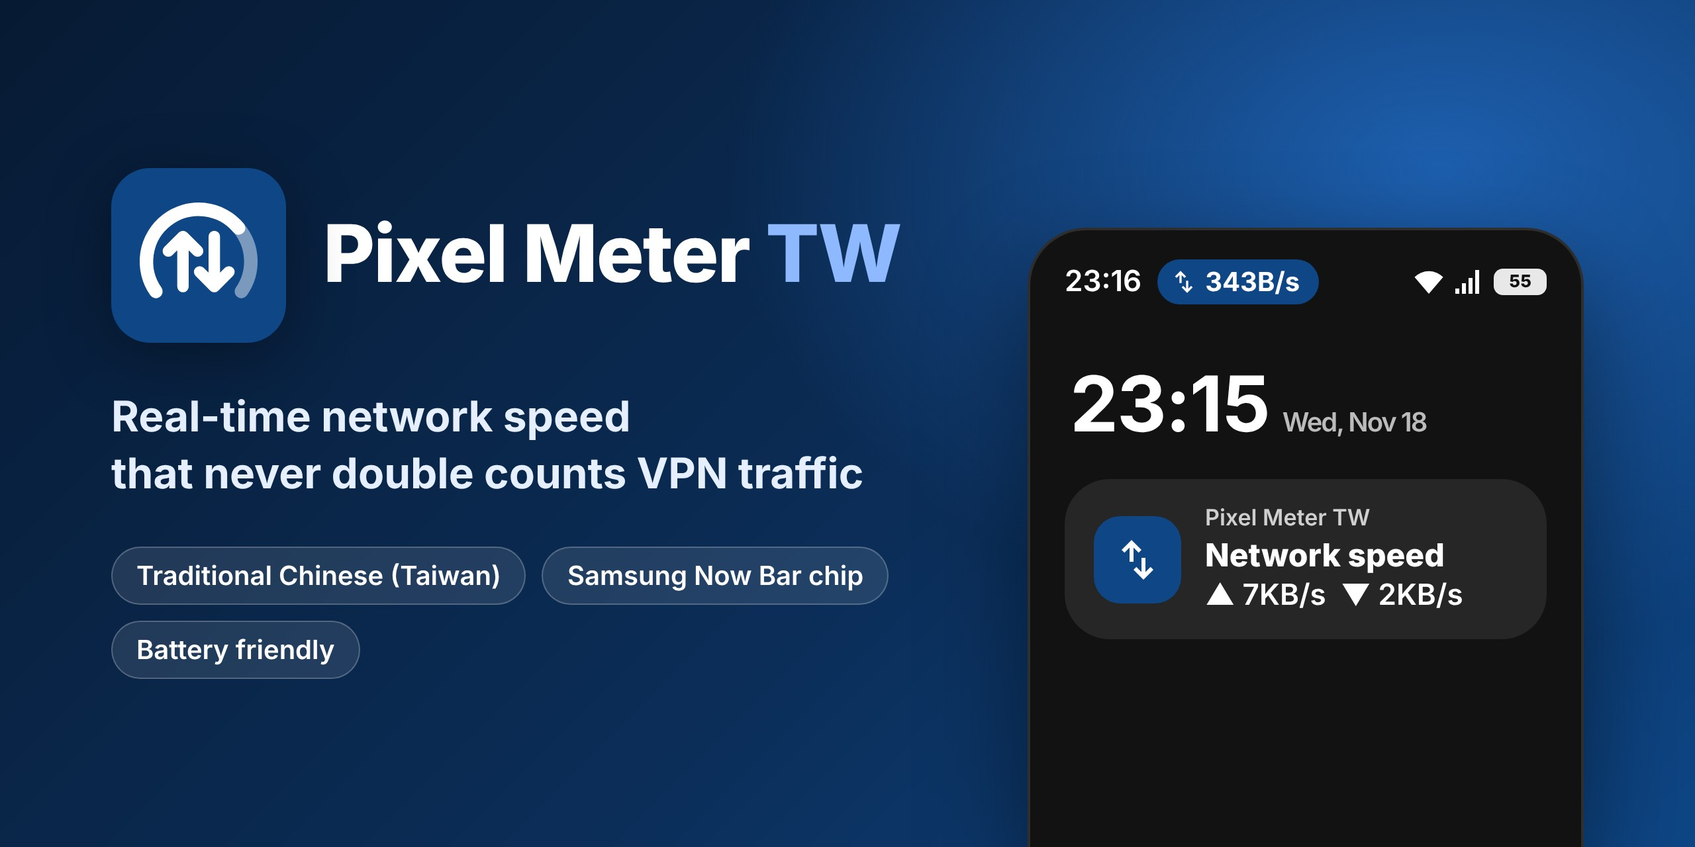
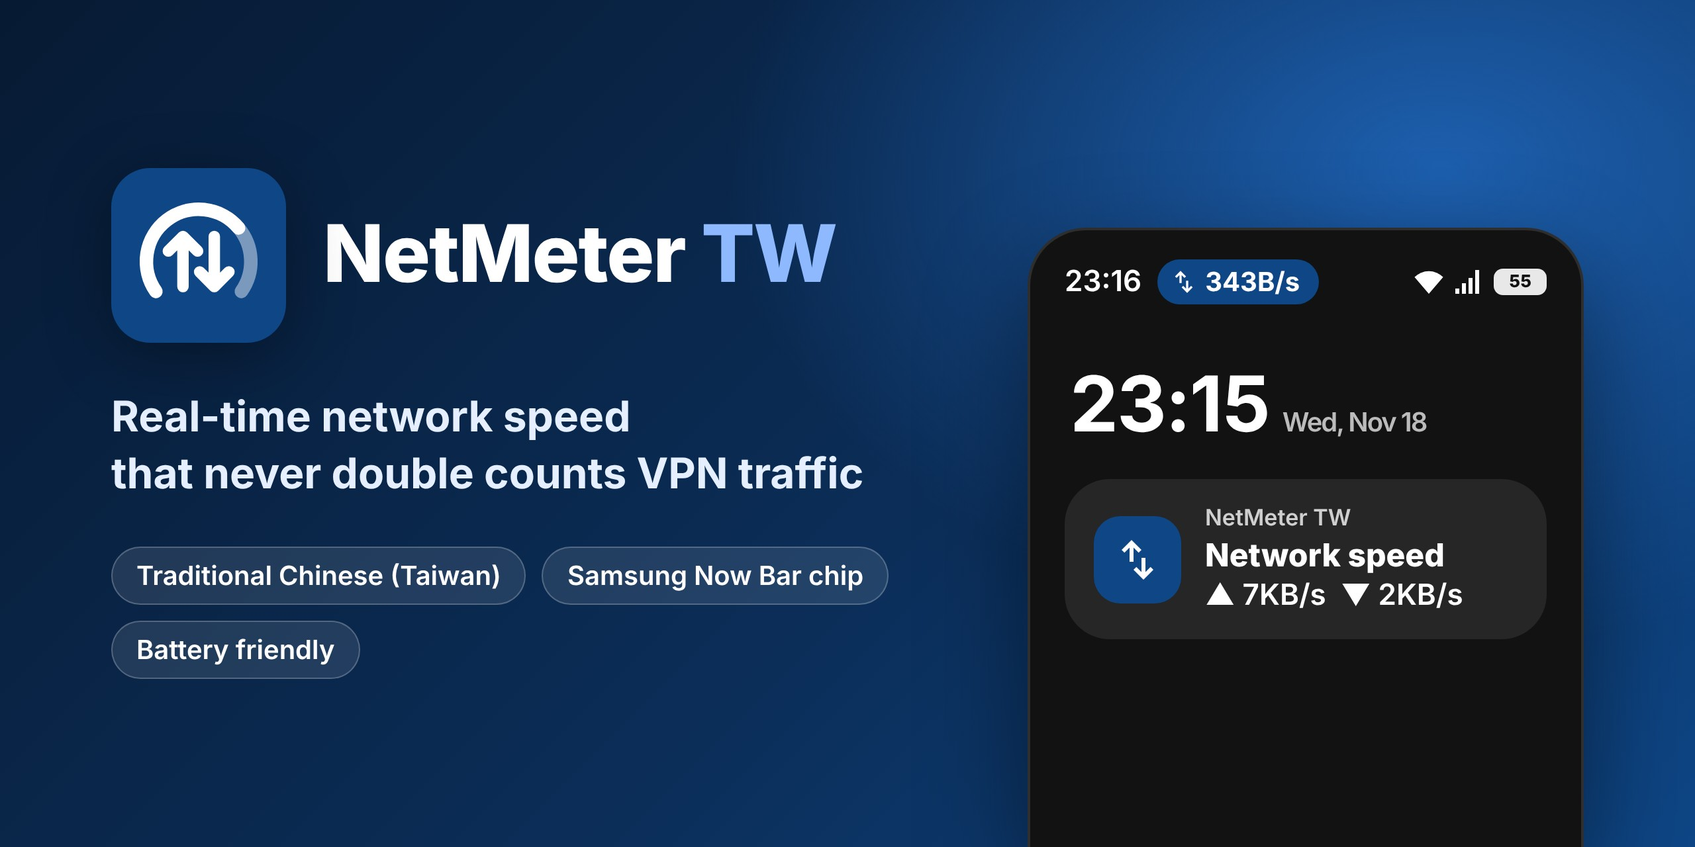
chore: rename the app to NetMeter TW
Replace the Pixel Meter name in the app label, onboarding strings, docs,
privacy policy, issue templates, workflows, release notes, and banners.
The About page now links to this repository and keeps an Apache-2.0
attribution entry for the original Pixel Meter instead of upstream's
website and Telegram channel. Rename the internal theme identifiers and
fix the CI smoke test to use the fork's application ID.

The internal package and DataStore name stay unchanged to keep upstream
merges possible and preserve user settings.

Claude-Session: https://claude.ai/code/session_017C3WMGrk2BviPpeCYqiVqC

Changed region(s): [[0.1875, 0.25, 0.5312, 0.3438], [0.7188, 0.5938, 0.8125, 0.625]]

diff --git a/app/src/main/kotlin/vip/mystery0/pixel/meter/ui/settings/AboutSettingsSection.kt b/app/src/main/kotlin/vip/mystery0/pixel/meter/ui/settings/AboutSettingsSection.kt
@@ -9,6 +9,9 @@ import me.zhanghai.compose.preference.PreferenceCategory
 import vip.mystery0.pixel.meter.BuildConfig
 import vip.mystery0.pixel.meter.R
 
+private const val REPOSITORY_URL = "https://github.com/candy999/NetMeter-TW"
+private const val UPSTREAM_REPOSITORY_URL = "https://github.com/Pixel-Tailor-CN/PixelMeter"
+
 @Composable
 fun AboutSettingsSection() {
     val uriHandler = LocalUriHandler.current
@@ -20,17 +23,13 @@ fun AboutSettingsSection() {
     )
     Preference(
         title = { Text(stringResource(R.string.settings_github)) },
-        summary = { Text("https://github.com/Pixel-Tailor-CN/PixelMeter") },
-        onClick = { uriHandler.openUri("https://github.com/Pixel-Tailor-CN/PixelMeter") }
+        summary = { Text(REPOSITORY_URL) },
+        onClick = { uriHandler.openUri(REPOSITORY_URL) }
     )
+    // Apache-2.0 attribution for the upstream project this fork is based on.
     Preference(
-        title = { Text(stringResource(R.string.settings_pixel_tailor)) },
-        summary = { Text(stringResource(R.string.settings_pixel_tailor_desc)) },
-        onClick = { uriHandler.openUri("https://pixel.mystery0.app") }
-    )
-    Preference(
-        title = { Text(stringResource(R.string.settings_telegram_channel)) },
-        summary = { Text(stringResource(R.string.settings_telegram_channel_desc)) },
-        onClick = { uriHandler.openUri("https://t.me/pixel_tailor_cn") }
+        title = { Text(stringResource(R.string.settings_original_project_title)) },
+        summary = { Text(stringResource(R.string.settings_original_project_desc)) },
+        onClick = { uriHandler.openUri(UPSTREAM_REPOSITORY_URL) }
     )
 }

diff --git a/app/src/main/kotlin/vip/mystery0/pixel/meter/ui/settings/SettingsActivity.kt b/app/src/main/kotlin/vip/mystery0/pixel/meter/ui/settings/SettingsActivity.kt
@@ -53,7 +53,7 @@ import androidx.lifecycle.LifecycleEventObserver
 import androidx.lifecycle.compose.LocalLifecycleOwner
 import me.zhanghai.compose.preference.ProvidePreferenceLocals
 import vip.mystery0.pixel.meter.R
-import vip.mystery0.pixel.meter.ui.theme.PixelPulseTheme
+import vip.mystery0.pixel.meter.ui.theme.NetMeterTheme
 
 private const val SETTINGS_TWO_PANE_MIN_WIDTH_DP = 840
 private const val SETTINGS_PAGE_TRANSITION_DURATION_MS = 250
@@ -73,7 +73,7 @@ class SettingsActivity : ComponentActivity() {
             val appThemeMode by viewModel.appThemeMode.collectAsState()
             val appThemeColor by viewModel.appThemeColor.collectAsState()
             val useAmoledBlack by viewModel.isAppThemeUseAmoledBlack.collectAsState()
-            PixelPulseTheme(
+            NetMeterTheme(
                 themeMode = appThemeMode,
                 themeColor = appThemeColor,
                 useAmoledBlack = useAmoledBlack

diff --git a/app/src/main/kotlin/vip/mystery0/pixel/meter/ui/overlay/OverlayWindow.kt b/app/src/main/kotlin/vip/mystery0/pixel/meter/ui/overlay/OverlayWindow.kt
@@ -57,7 +57,7 @@ import kotlinx.coroutines.launch
 import vip.mystery0.pixel.meter.data.repository.NetworkRepository
 import vip.mystery0.pixel.meter.data.source.NetSpeedData
 import vip.mystery0.pixel.meter.format.SpeedFormatter
-import vip.mystery0.pixel.meter.ui.theme.PixelPulseTheme
+import vip.mystery0.pixel.meter.ui.theme.NetMeterTheme
 import kotlin.math.roundToInt
 
 private const val LOW_TRAFFIC_HIDE_SAMPLE_COUNT = 3
@@ -142,7 +142,7 @@ class OverlayWindow(
                 val appThemeMode by repository.appThemeMode.collectAsState()
                 val appThemeColor by repository.appThemeColor.collectAsState()
                 val useAmoledBlack by repository.isAppThemeUseAmoledBlack.collectAsState()
-                PixelPulseTheme(
+                NetMeterTheme(
                     themeMode = appThemeMode,
                     themeColor = appThemeColor,
                     useAmoledBlack = useAmoledBlack

diff --git a/app/src/main/kotlin/vip/mystery0/pixel/meter/MainActivity.kt b/app/src/main/kotlin/vip/mystery0/pixel/meter/MainActivity.kt
@@ -62,7 +62,7 @@ import vip.mystery0.pixel.meter.format.SpeedFormatter
 import vip.mystery0.pixel.meter.ui.MainViewModel
 import vip.mystery0.pixel.meter.ui.onboarding.OnboardingScreen
 import vip.mystery0.pixel.meter.ui.settings.SettingsActivity
-import vip.mystery0.pixel.meter.ui.theme.PixelPulseTheme
+import vip.mystery0.pixel.meter.ui.theme.NetMeterTheme
 
 class MainActivity : ComponentActivity() {
     companion object {
@@ -81,7 +81,7 @@ class MainActivity : ComponentActivity() {
             val appThemeMode by viewModel.appThemeMode.collectAsState()
             val appThemeColor by viewModel.appThemeColor.collectAsState()
             val useAmoledBlack by viewModel.isAppThemeUseAmoledBlack.collectAsState()
-            PixelPulseTheme(
+            NetMeterTheme(
                 themeMode = appThemeMode,
                 themeColor = appThemeColor,
                 useAmoledBlack = useAmoledBlack

diff --git a/app/src/main/kotlin/vip/mystery0/pixel/meter/service/NotificationHelper.kt b/app/src/main/kotlin/vip/mystery0/pixel/meter/service/NotificationHelper.kt
@@ -121,7 +121,7 @@ class NotificationHelper(private val context: Context) {
     }
 
     // Icon generation
-    // On Pixel, small icon is typically 24dp. We render at higher res (e.g. 48px or 96px) for clarity
+    // The status bar small icon is typically 24dp. We render at higher res (e.g. 48px or 96px) for clarity
     private val size =
         (context.resources.displayMetrics.density * 24).roundToInt().coerceAtLeast(48)
     private val bitmap = createBitmap(size, size)

diff --git a/app/src/main/kotlin/vip/mystery0/pixel/meter/ui/theme/Theme.kt b/app/src/main/kotlin/vip/mystery0/pixel/meter/ui/theme/Theme.kt
@@ -72,7 +72,7 @@ private val FixedDarkColorScheme = darkColorScheme(
 )
 
 @Composable
-fun PixelPulseTheme(
+fun NetMeterTheme(
     darkTheme: Boolean = isSystemInDarkTheme(),
     themeMode: Int = AppThemeMode.DEFAULT.value,
     themeColor: Int = AppThemeMode.DEFAULT_THEME_COLOR,

diff --git a/.github/scripts/overlay_permission_smoke.py b/.github/scripts/overlay_permission_smoke.py
@@ -1,5 +1,5 @@
 #!/usr/bin/env python3
-"""Issue #30 black-box UI smoke tests for an installed Pixel Meter debug APK.
+"""Issue #30 black-box UI smoke tests for an installed NetMeter TW debug APK.
 
 Requires an unlocked API 33 x86_64 English emulator and Python 3.10+. No external
 Python dependencies, instrumentation, root, service-start commands, preference
@@ -29,7 +29,7 @@ from dataclasses import dataclass
 from typing import Callable
 
 
-PACKAGE = "vip.mystery0.pixel.meter"
+PACKAGE = "io.github.candy999.netmeter"
 NOTIFICATION_PERMISSION = "android.permission.POST_NOTIFICATIONS"
 OVERLAY_LABEL = "Enable Floating Window"
 NOTIFICATION_LABEL = "Show on Notification"
@@ -366,7 +366,7 @@ class Harness:
                 "pm clear failed; cases cannot be isolated")
         self.permissions(overlay, notification)
         self.launch()
-        self.find("Set up Pixel Meter")
+        self.find("Set up NetMeter TW")
         self.assert_runtime(False, False, duration=1)
 
     def onboarding(self, overlay: bool, notification: bool, allowed: bool = True) -> None:
@@ -648,14 +648,14 @@ def application_errors(log: str, package: str) -> list[str]:
 
 def save_reports(output: Path, results: list[dict]) -> None:
     failures = sum(result["status"] == "failed" for result in results)
-    payload = {"suite": "PixelMeter issue #30 API 33 UI smoke", "cases": results,
+    payload = {"suite": "NetMeterTW issue #30 API 33 UI smoke", "cases": results,
                "tests": len(results), "failures": failures}
     (output / "results.json").write_text(json.dumps(payload, indent=2), encoding="utf-8")
     suite = ET.Element("testsuite", name=payload["suite"], tests=str(len(results)),
                        failures=str(failures), errors="0", skipped="0",
                        time=str(round(sum(result["duration_seconds"] for result in results), 3)))
     for result in results:
-        case = ET.SubElement(suite, "testcase", classname="PixelMeter.OverlayPermissionSmoke",
+        case = ET.SubElement(suite, "testcase", classname="NetMeterTW.OverlayPermissionSmoke",
                              name=result["name"], time=str(result["duration_seconds"]))
         if result["status"] == "failed":
             ET.SubElement(case, "failure", message=result["error"].splitlines()[0]).text = result["error"]
@@ -711,7 +711,7 @@ class ParserTests(unittest.TestCase):
     def test_api33_launcher_summary_is_in_activity_dump(self):
         launcher = "com.google.android.apps.nexuslauncher"
         # Representative lines from a real API 33 Pixel 5 CI capture. A retained
-        # STOPPED Pixel Meter task below the launcher must not confuse the check.
+        # STOPPED NetMeter TW task below the launcher must not confuse the check.
         dump = (
             "ACTIVITY MANAGER ACTIVITIES (dumpsys activity activities)\n"
             "Display #0 (activities from top to bottom):\n"

diff --git a/PRIVACY_POLICY.md b/PRIVACY_POLICY.md
@@ -1,23 +1,23 @@
-# Privacy Policy for Pixel Meter
+# Privacy Policy for NetMeter TW
 
 **Effective Date:** 2026-08-26
 
-Pixel Meter ("we," "our," or "us") is committed to protecting your privacy. This policy explains how the app processes information and uses Android permissions.
+NetMeter TW ("we," "our," or "us") is committed to protecting your privacy. This policy explains how the app processes information and uses Android permissions.
 
 ## 1. Information Collection and Processing
 
-**Pixel Meter does not collect, store, sell or transmit personal data, device identifiers, network traffic contents, browsing history or app usage data.**
+**NetMeter TW does not collect, store, sell or transmit personal data, device identifiers, network traffic contents, browsing history or app usage data.**
 
-The app reads local byte counters exposed by Android for active physical network interfaces. These counters are used only to calculate the current upload and download speed on your device. Pixel Meter does not inspect packet contents, DNS requests, websites or communications.
+The app reads local byte counters exposed by Android for active physical network interfaces. These counters are used only to calculate the current upload and download speed on your device. NetMeter TW does not inspect packet contents, DNS requests, websites or communications.
 
 Settings are stored locally with Android Preferences DataStore.
 
 ## 2. Permissions
 
-Pixel Meter may declare or request the following permissions:
+NetMeter TW may declare or request the following permissions:
 
 - **`ACCESS_NETWORK_STATE`**: Identifies active network transports and physical interface names, and excludes VPN transports from speed calculation.
-- **`INTERNET`**: Supports links opened by the user, including the Cloudflare speed test. Pixel Meter does not use it for analytics or background reporting.
+- **`INTERNET`**: Supports links opened by the user, including the Cloudflare speed test. NetMeter TW does not use it for analytics or background reporting.
 - **`FOREGROUND_SERVICE`**: Runs the user-enabled real-time monitoring service.
 - **`FOREGROUND_SERVICE_SPECIAL_USE`**: Declares the network-monitor Foreground Service subtype used on Android 14 and later.
 - **`FOREGROUND_SERVICE_DATA_SYNC`**: Provides the compatible Foreground Service type used on earlier supported Android versions.
@@ -31,25 +31,23 @@ Android requires an ongoing notification while the Foreground Service is running
 
 ## 3. Third-Party Pages
 
-Pixel Meter does not include third-party analytics, advertising SDKs or tracking libraries.
+NetMeter TW does not include third-party analytics, advertising SDKs or tracking libraries.
 
 User actions may open external pages with Chrome Custom Tabs or another browser, including:
 
 - `speed.cloudflare.com`
 - GitHub
-- Pixel Tailor
-- Telegram
 - `dontkillmyapp.com`
 
-Those pages are governed by their own privacy policies and the privacy settings of the selected browser. Pixel Meter does not receive browsing data from them.
+Those pages are governed by their own privacy policies and the privacy settings of the selected browser. NetMeter TW does not receive browsing data from them.
 
 ## 4. Data Sharing and Retention
 
-Pixel Meter does not operate a server for application data and does not share user data with third parties. Local settings remain on the device until the app data is cleared or the app is uninstalled.
+NetMeter TW does not operate a server for application data and does not share user data with third parties. Local settings remain on the device until the app data is cleared or the app is uninstalled.
 
 ## 5. Children’s Privacy
 
-Pixel Meter is not directed to children under 13 and does not knowingly collect personal information from children.
+NetMeter TW is not directed to children under 13 and does not knowingly collect personal information from children.
 
 ## 6. Policy Changes
 
@@ -57,4 +55,4 @@ This policy may be updated when app functionality, permissions or legal requirem
 
 ## 7. Contact
 
-Questions or suggestions can be submitted through the [Pixel Meter GitHub repository](https://github.com/Pixel-Tailor-CN/PixelMeter/issues).
+Questions or suggestions can be submitted through the [NetMeter TW GitHub repository](https://github.com/candy999/NetMeter-TW/issues). NetMeter TW is a fork of Pixel Meter by Pixel Tailor CN.

diff --git a/README.md b/README.md
@@ -1,7 +1,7 @@
-# Pixel Meter TW
+# NetMeter TW
 
 <p align="center">
-  <img src="docs/banner-en.jpg" width="100%" alt="Pixel Meter TW: real-time network speed that never double counts VPN traffic"/>
+  <img src="docs/banner-en.jpg" width="100%" alt="NetMeter TW: real-time network speed that never double counts VPN traffic"/>
 </p>
 
 <p align="center">
@@ -18,7 +18,7 @@
   English · <a href="README_TW.md">繁體中文（台灣）</a> · <a href="README_CN.md">简体中文</a>
 </p>
 
-Pixel Meter TW is a fork of [Pixel Meter](https://github.com/Pixel-Tailor-CN/PixelMeter) by Pixel Tailor CN. It keeps everything that makes the original accurate and adds:
+NetMeter TW is a fork of [Pixel Meter](https://github.com/Pixel-Tailor-CN/PixelMeter) by Pixel Tailor CN. It keeps everything that makes the original accurate and adds:
 
 - A full **Traditional Chinese (Taiwan)** interface written with Taiwan terminology, not converted from Simplified Chinese.
 - **Samsung One UI support** for the Now Bar and status bar chip, plus Samsung-specific setup guidance.
@@ -27,14 +27,14 @@ Pixel Meter TW is a fork of [Pixel Meter](https://github.com/Pixel-Tailor-CN/Pix
 
 ## Why it is accurate
 
-Many speed meters count traffic on both the physical network and the VPN tunnel, so the speed shown can be about twice the real value. Pixel Meter TW uses `ConnectivityManager.NetworkCallback` to find Wi-Fi, cellular, and Ethernet networks, excludes networks with `TRANSPORT_VPN`, and reads each physical interface with `TrafficStats`. It does not rely on a `tun0` blacklist, and needs no Root, Shizuku, or ADB.
+Many speed meters count traffic on both the physical network and the VPN tunnel, so the speed shown can be about twice the real value. NetMeter TW uses `ConnectivityManager.NetworkCallback` to find Wi-Fi, cellular, and Ethernet networks, excludes networks with `TRANSPORT_VPN`, and reads each physical interface with `TrafficStats`. It does not rely on a `tun0` blacklist, and needs no Root, Shizuku, or ADB.
 
 ## Download
 
 | Channel | What you get |
 |---|---|
 | [Releases](https://github.com/candy999/NetMeter-TW/releases/latest) | Signed release APK. Recommended. |
-| [Actions › Build APK](https://github.com/candy999/NetMeter-TW/actions/workflows/build-apk.yml) | A test APK for every push. Open a run and download `PixelMeterTW-apk` from **Artifacts** (GitHub sign-in required). |
+| [Actions › Build APK](https://github.com/candy999/NetMeter-TW/actions/workflows/build-apk.yml) | A test APK for every push. Open a run and download `NetMeterTW-apk` from **Artifacts** (GitHub sign-in required). |
 
 The app is not on Google Play. Release builds and Actions test builds may use different signatures. If Android refuses to update, uninstall the other build first; this clears the app's settings.
 
@@ -55,7 +55,7 @@ The app is not on Google Play. Release builds and Actions test builds may use di
 
 ## Samsung One UI
 
-One UI handles ongoing notifications through its own Now Bar pipeline, which ignores standard Android Live Updates from apps outside Samsung's allowlist. On Samsung devices, Pixel Meter TW adds the Now Bar extras that community research found Samsung SystemUI honors. One UI labels a chip posted with these extras "Gemini Intelligence". To show the app's own name, turn on **Developer options › Live notifications for all apps** (the name can vary by One UI version); the app then skips the extras automatically. **Settings › Notifications › Now Bar label mode** can force either behavior.
+One UI handles ongoing notifications through its own Now Bar pipeline, which ignores standard Android Live Updates from apps outside Samsung's allowlist. On Samsung devices, NetMeter TW adds the Now Bar extras that community research found Samsung SystemUI honors. One UI labels a chip posted with these extras "Gemini Intelligence". To show the app's own name, turn on **Developer options › Live notifications for all apps** (the name can vary by One UI version); the app then skips the extras automatically. **Settings › Notifications › Now Bar label mode** can force either behavior.
 
 | One UI | Live Update chip / Now Bar |
 |---|---|

diff --git a/README_TW.md b/README_TW.md
@@ -1,7 +1,7 @@
-# Pixel Meter TW
+# NetMeter TW
 
 <p align="center">
-  <img src="docs/banner-tw.jpg" width="100%" alt="Pixel Meter TW：開著 VPN 也不會重複計算的即時網速計"/>
+  <img src="docs/banner-tw.jpg" width="100%" alt="NetMeter TW：開著 VPN 也不會重複計算的即時網速計"/>
 </p>
 
 <p align="center">
@@ -18,7 +18,7 @@
   <a href="README.md">English</a> · 繁體中文（台灣） · <a href="README_CN.md">简体中文</a>
 </p>
 
-Pixel Meter TW 是 Pixel Tailor CN 開發的 [Pixel Meter](https://github.com/Pixel-Tailor-CN/PixelMeter) 的分支版本。原版準確計速的做法全部保留，另外加上：
+NetMeter TW 是 Pixel Tailor CN 開發的 [Pixel Meter](https://github.com/Pixel-Tailor-CN/PixelMeter) 的分支版本。原版準確計速的做法全部保留，另外加上：
 
 - **台灣繁體中文介面**，用台灣用語從原意翻譯，不是簡轉繁。
 - **三星 One UI 支援**：可以在 Now Bar 和狀態列膠囊顯示網速，並提供三星專屬的設定引導。
@@ -27,14 +27,14 @@ Pixel Meter TW 是 Pixel Tailor CN 開發的 [Pixel Meter](https://github.com/Pi
 
 ## 為什麼準確
 
-很多網速 App 會把實體網路和 VPN 通道的流量都算進去，顯示的網速會變成實際的兩倍左右。Pixel Meter TW 用 `ConnectivityManager.NetworkCallback` 找出 Wi-Fi、行動網路和乙太網路，排除 `TRANSPORT_VPN` 類型的網路，再用 `TrafficStats` 讀取每個實體介面的流量。不用靠 `tun0` 黑名單，也不需要 Root、Shizuku 或 ADB。
+很多網速 App 會把實體網路和 VPN 通道的流量都算進去，顯示的網速會變成實際的兩倍左右。NetMeter TW 用 `ConnectivityManager.NetworkCallback` 找出 Wi-Fi、行動網路和乙太網路，排除 `TRANSPORT_VPN` 類型的網路，再用 `TrafficStats` 讀取每個實體介面的流量。不用靠 `tun0` 黑名單，也不需要 Root、Shizuku 或 ADB。
 
 ## 下載
 
 | 管道 | 說明 |
 |---|---|
 | [Releases](https://github.com/candy999/NetMeter-TW/releases/latest) | 正式簽章版 APK，建議使用。 |
-| [Actions › Build APK](https://github.com/candy999/NetMeter-TW/actions/workflows/build-apk.yml) | 每次更新程式碼都會產生的測試版 APK。點進任一次執行，在頁面下方的 **Artifacts** 下載 `PixelMeterTW-apk`，需要登入 GitHub。 |
+| [Actions › Build APK](https://github.com/candy999/NetMeter-TW/actions/workflows/build-apk.yml) | 每次更新程式碼都會產生的測試版 APK。點進任一次執行，在頁面下方的 **Artifacts** 下載 `NetMeterTW-apk`，需要登入 GitHub。 |
 
 本 App 沒有上架 Google Play。正式版和測試版的簽章可能不同；如果 Android 提示無法更新，請先解除安裝另一個版本再安裝，App 的設定會被清除。
 
@@ -55,7 +55,7 @@ Pixel Meter TW 是 Pixel Tailor CN 開發的 [Pixel Meter](https://github.com/Pi
 
 ## 三星 One UI
 
-One UI 用自己的 Now Bar 機制處理常駐通知，不在三星白名單裡的 App 送出標準 Android 即時更新會被忽略。在三星手機上，Pixel Meter TW 會加上社群研究發現、三星系統會接受的 Now Bar 專用參數。
+One UI 用自己的 Now Bar 機制處理常駐通知，不在三星白名單裡的 App 送出標準 Android 即時更新會被忽略。在三星手機上，NetMeter TW 會加上社群研究發現、三星系統會接受的 Now Bar 專用參數。
 
 | One UI 版本 | 即時更新膠囊／Now Bar |
 |---|---|

diff --git a/RELEASE_NOTES.md b/RELEASE_NOTES.md
@@ -1,4 +1,4 @@
-## Pixel Meter TW v1.9.8-tw.1
+## NetMeter TW v1.9.8-tw.1
 
 基於 [Pixel Meter](https://github.com/Pixel-Tailor-CN/PixelMeter) v1.9.8 的台灣分支版本，可以和原版同時安裝（應用程式 ID：`io.github.candy999.netmeter`）。
 
@@ -7,6 +7,10 @@
 - 支援三星 One UI 的 Now Bar 與狀態列膠囊（One UI 8.5 以上）。
 - 設定頁新增「即時更新權限」狀態與系統設定捷徑。
 - 三星裝置新增「Now Bar 相容模式」說明與「永不睡眠的應用程式」設定指南。
+- 新增「Now Bar 標示模式」：在開發人員選項啟用「所有應用程式的即時通知」後，膠囊會顯示本 App 名稱，不再標示為 Gemini Intelligence。
+- 新增「降低通知重要性」，讓監測通知移到靜音區，不和訊息通知搶位置。
+- 首次設定預先勾選通知網速與即時更新膠囊。
+- 全新名稱 NetMeter TW、全新圖示，預設主題色改為深藍色 #0E4686。
 
 ### 省電與效能
 - 關閉螢幕 10 秒後停止取樣（原本為 2 分鐘）；在螢幕關閉時啟動服務也會停止取樣。
@@ -19,12 +23,12 @@
 - 修正快速開關浮動視窗時可能殘留多個視窗的問題。
 
 ### 安裝說明
-- 下載下方的 `PixelMeterTW-v1.9.8-tw.1.apk` 安裝。
+- 下載下方的 `NetMeterTW-v1.9.8-tw.1.apk` 安裝。
 - 如果裝過 GitHub Actions 的測試版（debug 版），因為簽章不同，請先解除安裝測試版再安裝正式版。
 
 ---
 
-## Pixel Meter TW v1.9.8-tw.1 (English)
+## NetMeter TW v1.9.8-tw.1 (English)
 
 A Taiwan fork based on [Pixel Meter](https://github.com/Pixel-Tailor-CN/PixelMeter) v1.9.8. It installs alongside the original app (application ID `io.github.candy999.netmeter`).
 
@@ -33,6 +37,10 @@ A Taiwan fork based on [Pixel Meter](https://github.com/Pixel-Tailor-CN/PixelMet
 - Samsung One UI Now Bar and status bar chip support for Live Update (One UI 8.5 or later).
 - Live Update permission status with a shortcut to system settings.
 - Samsung-only Now Bar hint and a "Never sleeping apps" guide.
+- Now Bar label mode: with the developer option "Live notifications for all apps" on, the chip shows the app's own name instead of "Gemini Intelligence".
+- "Lower notification priority" moves the monitor notification to the silent section.
+- Onboarding pre-selects notification speed and the Live Update chip.
+- New name NetMeter TW, a new icon, and dark blue #0E4686 as the default theme color.
 
 ### Battery and performance
 - Sampling stops 10 seconds after the screen turns off (was 2 minutes), including when the service starts with the screen off.
@@ -45,5 +53,5 @@ A Taiwan fork based on [Pixel Meter](https://github.com/Pixel-Tailor-CN/PixelMet
 - Quickly toggling the Overlay no longer leaves extra windows behind.
 
 ### Install
-- Download `PixelMeterTW-v1.9.8-tw.1.apk` below.
+- Download `NetMeterTW-v1.9.8-tw.1.apk` below.
 - Uninstall any debug test build from GitHub Actions first; it uses a different signature.
